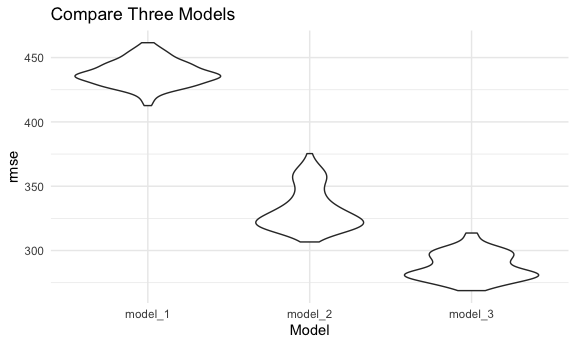
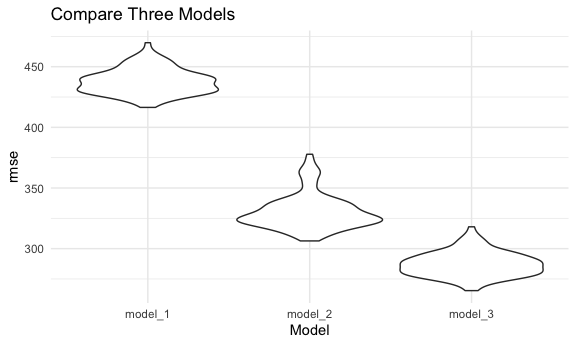
changes to prob 3

diff --git a/p8105_hw6_jz3297.md b/p8105_hw6_jz3297.md
@@ -454,6 +454,7 @@ weather_df =
 #### Generate 5000 bootstrap results
 
 ``` r
+set.seed(7)
 boot_results =
   weather_df %>% 
   bootstrap(n = 5000, id = "strap_number") %>% 
@@ -471,16 +472,16 @@ boot_results
     ## # A tibble: 10,000 x 4
     ##    strap_number term        estimate r_squared
     ##    <chr>        <chr>          <dbl>     <dbl>
-    ##  1 0001         (Intercept)     7.44     0.897
-    ##  2 0001         tmin            1.03     0.897
-    ##  3 0002         (Intercept)     7.10     0.899
-    ##  4 0002         tmin            1.04     0.899
-    ##  5 0003         (Intercept)     7.26     0.916
-    ##  6 0003         tmin            1.03     0.916
-    ##  7 0004         (Intercept)     7.59     0.905
-    ##  8 0004         tmin            1.02     0.905
-    ##  9 0005         (Intercept)     7.33     0.917
-    ## 10 0005         tmin            1.05     0.917
+    ##  1 0001         (Intercept)     6.91     0.925
+    ##  2 0001         tmin            1.05     0.925
+    ##  3 0002         (Intercept)     7.08     0.909
+    ##  4 0002         tmin            1.04     0.909
+    ##  5 0003         (Intercept)     7.09     0.910
+    ##  6 0003         tmin            1.03     0.910
+    ##  7 0004         (Intercept)     7.24     0.931
+    ##  8 0004         tmin            1.04     0.931
+    ##  9 0005         (Intercept)     7.08     0.907
+    ## 10 0005         tmin            1.05     0.907
     ## # … with 9,990 more rows
 
 <br />
@@ -544,27 +545,35 @@ log_df %>%
 #### Identify the 2.5% and 97.5% quantiles to provide a 95% CI for two quantities
 
 ``` r
-quantile(boot_results %>% pull(r_squared), probs = c(0.025, 0.975)) %>% 
+boot_results %>% 
+  distinct(strap_number, r_squared) %>% 
+  summarize(
+    lower = quantile(r_squared, 0.025),
+    upper = quantile(r_squared, 0.975)
+  ) %>% 
   knitr::kable()
 ```
 
-|       |         x |
-| :---- | --------: |
-| 2.5%  | 0.8940405 |
-| 97.5% | 0.9273167 |
+|     lower |     upper |
+| --------: | --------: |
+| 0.8935215 | 0.9272975 |
 
-  - The 95% CI for r^2 is between 0.895 and 0.927
+  - The 95% CI for r^2 is between 0.894 and 0.927
 
 <br />
 
 ``` r
-quantile(log_df %>% pull(log_beta), probs = c(0.025, 0.975)) %>% 
+log_df %>% 
+  distinct(strap_number, log_beta) %>% 
+  summarize(
+    lower = quantile(log_beta, 0.025),
+    upper = quantile(log_beta, 0.975)
+  ) %>% 
   knitr::kable()
 ```
 
-|       |        x |
-| :---- | -------: |
-| 2.5%  | 1.965400 |
-| 97.5% | 2.059904 |
+|    lower |    upper |
+| -------: | -------: |
+| 1.966424 | 2.058961 |
 
-  - The 95% CI for log(beta0 \* beta1) is between 1.964 and 2.060
+  - The 95% CI for log(beta0 \* beta1) is between 1.97 and 2.06
